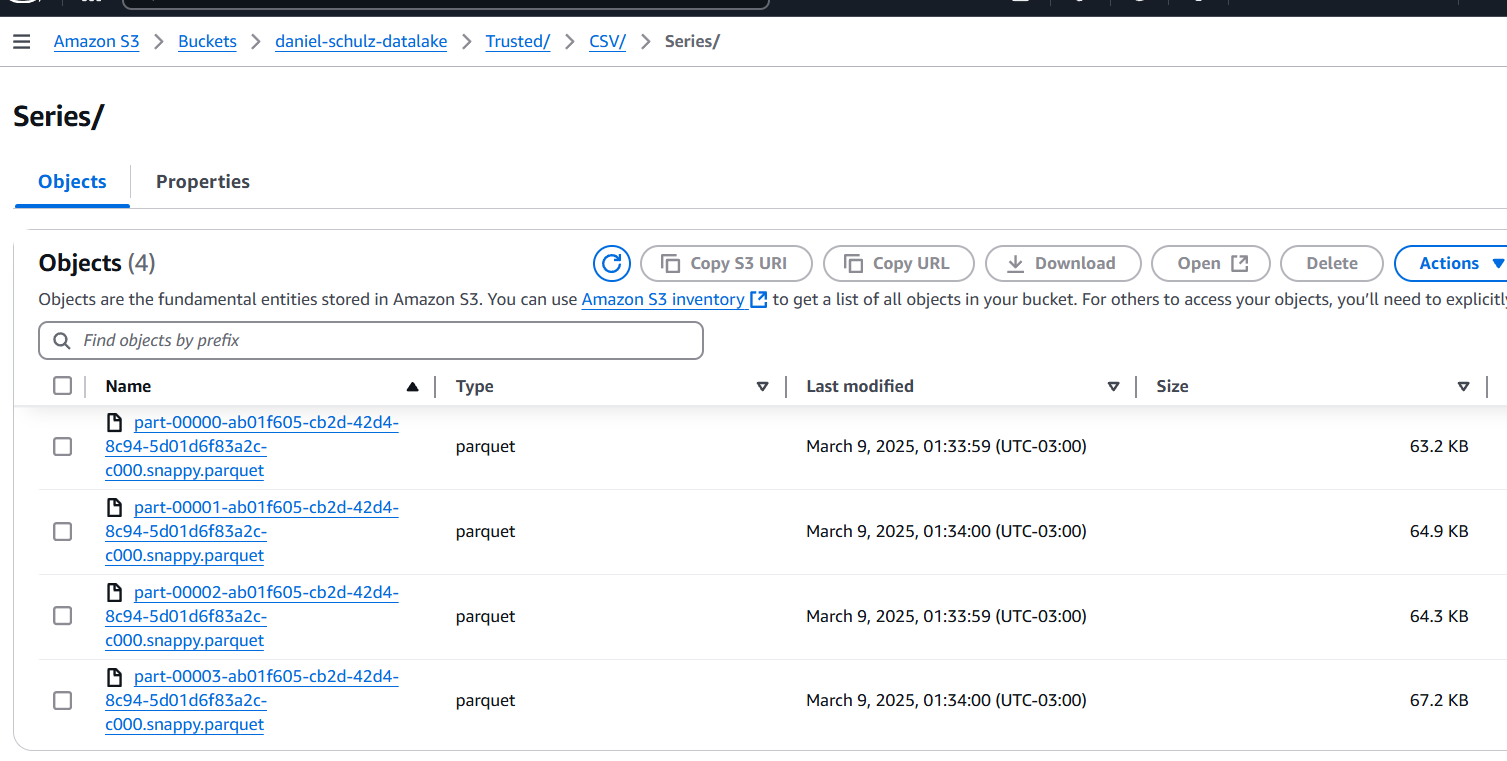
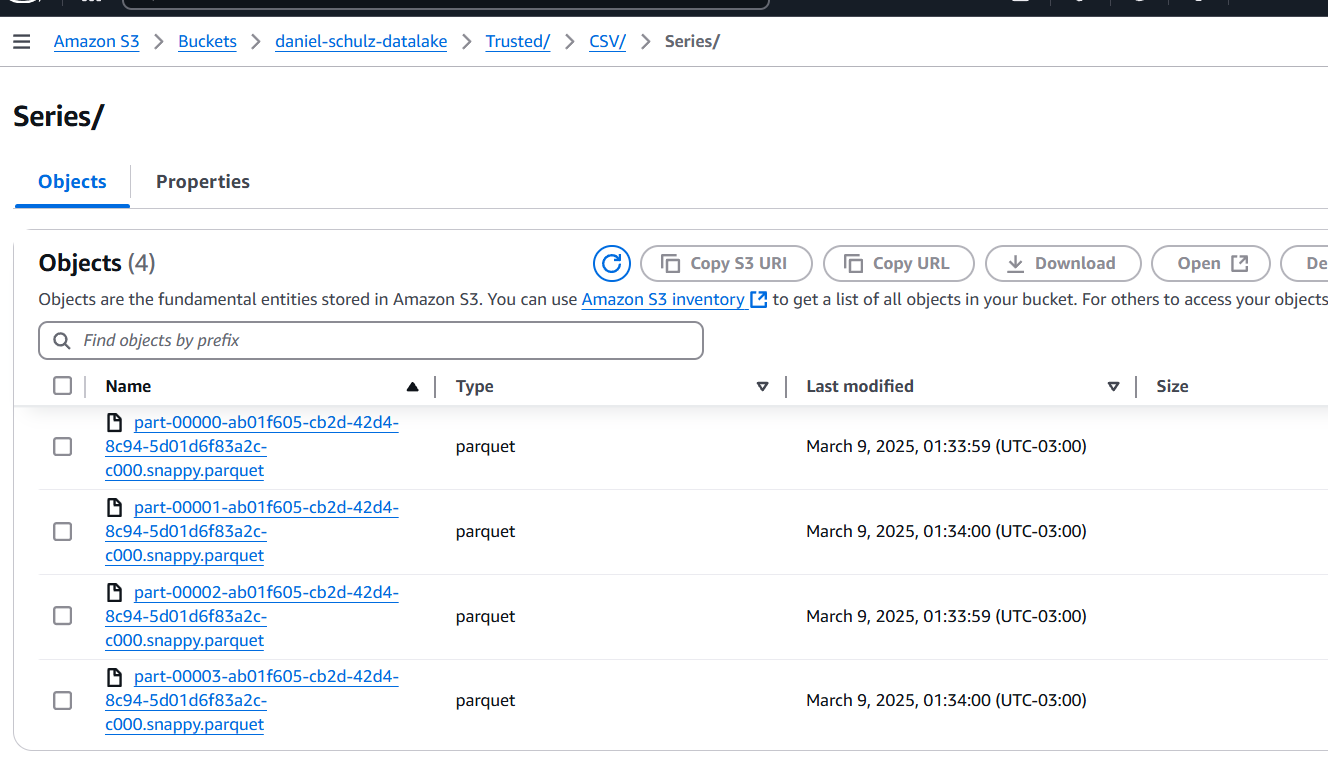
Precisei arrumar alguns detalhes na documentação e nos códigos

diff --git a/Sprint 6/Desafio/etapa-2/aws-glue-json.py b/Sprint 6/Desafio/etapa-2/aws-glue-json.py
@@ -1,5 +1,5 @@
 import sys
-import datetime
+import re
 from awsglue.transforms import *
 from awsglue.utils import getResolvedOptions
 from pyspark.context import SparkContext
@@ -9,11 +9,11 @@ from awsglue.dynamicframe import DynamicFrame
 from pyspark.sql.functions import col, upper, when
 
 # Obtive argumentos do AWS Glue Job
-args = getResolvedOptions(sys.argv, ['JOB_NAME', 'INPUT_PATH', 'OUTPUT_PATH'])
+args = getResolvedOptions(sys.argv, ['JOB_NAME', 'INPUT_PATH', 'TARGET_PATH'])
 
 # Converti a string de caminhos em uma lista
 json_paths = args['INPUT_PATH'].split(',')
-parquet_base_path = args['OUTPUT_PATH']
+parquet_base_path = args['TARGET_PATH']
 
 # Inicializei Spark e Glue
 sc = SparkContext()
@@ -22,13 +22,20 @@ spark = glueContext.spark_session
 job = Job(glueContext)
 job.init(args['JOB_NAME'], args)
 
-# Obtive data da execução para criar diretórios no formato correto
-today = datetime.datetime.now()
-ano, mes, dia = today.strftime("%Y"), today.strftime("%m"), today.strftime("%d")
+# Função para extrair a data do caminho do arquivo
+def extract_date_from_path(path):
+    match = re.search(r'(\d{4})/(\d{2})/(\d{2})/', path)
+    if match:
+        return match.group(1), match.group(2), match.group(3)
+    else:
+        raise ValueError("Data não encontrada no caminho do arquivo")
 
-# Criei um DynamicFrame para cada JSON e apliquei transformações
-dataframes = []
+# Processar cada arquivo JSON individualmente
 for path in json_paths:
+    # Extrai a data do caminho do arquivo
+    ano, mes, dia = extract_date_from_path(path)
+    
+    # Cria um DynamicFrame a partir do JSON
     dynamic_frame = glueContext.create_dynamic_frame.from_options(
         format_options={"multiline": True},
         connection_type="s3",
@@ -36,9 +43,10 @@ for path in json_paths:
         connection_options={"paths": [path], "recurse": True}
     )
 
+    # Converte para DataFrame
     df = dynamic_frame.toDF()
 
-    # Apliquei transformações
+    # Aplica transformações
     df = df.withColumn("anoLancamento", when(col("anoLancamento") == "", "Desconhecido")
                                        .otherwise(col("anoLancamento").cast("int")))
     df = df.withColumn("numeroEpisodios", when(col("numeroEpisodios").isNull(), 0)
@@ -48,28 +56,19 @@ for path in json_paths:
     df = df.withColumn("tituloOriginal", upper(col("tituloOriginal")))
     df = df.withColumn("estudio", upper(col("estudio")))
 
-    dataframes.append(df)
+    # Converte de volta para DynamicFrame
+    transformed_dynamic_frame = DynamicFrame.fromDF(df, glueContext, "transformed_df")
 
-# Uni todos os DataFrames
-df_final = dataframes[0]
-for df in dataframes[1:]:
-    df_final = df_final.unionByName(df)
+    # Cria o caminho de saída com base na data extraída
+    final_path = f"{parquet_base_path}/TMDB/Parquet/Series/{ano}/{mes}/{dia}/"
 
-# Converti para DynamicFrame
-transformed_dynamic_frame = DynamicFrame.fromDF(df_final, glueContext, "transformed_df")
-
-# Caminho final seguindo o padrão estabelecido
-final_path = f"{parquet_base_path}/TMDB/Parquet/Series/{ano}/{mes}/{dia}/"
-
-# Salvando como Parquet no S3
-glueContext.write_dynamic_frame.from_options(
-    frame=transformed_dynamic_frame,
-    connection_type="s3",
-    format="parquet",
-    connection_options={"path": final_path} 
-)
-
-print(f"Processamento concluído! Dados salvos em: {final_path}")
+    # Salva como Parquet no S3
+    glueContext.write_dynamic_frame.from_options(
+        frame=transformed_dynamic_frame,
+        connection_type="s3",
+        format="parquet",
+        connection_options={"path": final_path} 
+    )
 
 # Finalizando o job
 job.commit()

diff --git a/Sprint 6/Desafio/etapa-1/aws-glue-csv.py b/Sprint 6/Desafio/etapa-1/aws-glue-csv.py
@@ -46,11 +46,8 @@ df = df.withColumn("notaMedia", col("notaMedia").cast("int"))
 # Removi duplicatas
 df = df.dropDuplicates()
 
-# Filtrei para ter os dados do gênero Crime ou War
-df_filtered = df.filter(col("genero").rlike("Crime|War"))
-
 # Salvei os dados filtrados no S3 no formato Parquet (usando Spark diretamente)
-df_filtered.write.mode("overwrite").parquet(target_path)
+df.write.mode("overwrite").parquet(target_path)
 
 # Finalizei o job
 job.commit()

diff --git a/Sprint 6/Desafio/README.md b/Sprint 6/Desafio/README.md
@@ -4,7 +4,7 @@ Comecei criando o diretório Trusted no meu DataLake:
 
 ![trusted_criado](../Evidências/trusted_criada.png)
 
-Como inicialmente eu escolhi analisar apenas as séries de Guerra, no CSV eu filtrei as séries do gênero Guerra, mas ao fazer a filtragem percebi que tinha poucos dados com essas condições:
+Como inicialmente eu escolhi analisar apenas as séries de Guerra, no CSV eu filtrei as séries do gênero Guerra para saber a quantidade, mas ao fazer a filtragem percebi que tinha poucos dados com essas condições:
 
 ![linhas_series_war](../Evidências/linhas_war_csv.png)
 
@@ -26,7 +26,7 @@ Sendo assim, pensei em analisar dados de séries de Guerra e Crime, então, prec
 
 ---
 
-Código Lambda atualizado e executado:
+Código Lambda executado:
 
 ![dados_series_crime](../Evidências/dados_crime_api.png)
 
@@ -80,8 +80,6 @@ As colunas anoLancamento, anoTermino e tempoMinutos, anoNascimento, anoFalecimen
 Também idenfiquei valores duplicados, então escolhi remover as duplicatas.
 
 ![duplicados](../Evidências/duplicados.png)
-
-E como optei por fazer análises sobre os gêneros Crime e Guerra, filtrarei para ter os dados do gênero "Crime" ou "War".
 
 ## Código para fazer o ETL no AWS Glue (Job 1):
 
@@ -171,15 +169,9 @@ df = df.dropDuplicates()
 ```
 ---
 
-### **10. Filtragem por Gênero (Crime ou Guerra)**
+### **10. Salvamento no S3 em Formato Parquet**
 ```python
-df_filtered = df.filter(col("genero").rlike("Crime|War"))
-```
----
-
-### **11. Salvamento no S3 em Formato Parquet**
-```python
-df_filtered.write.mode("overwrite").parquet(target_path)
+df.write.mode("overwrite").parquet(target_path)
 ```
 ---
 
@@ -220,7 +212,7 @@ Os textos nas colunas tituloOriginal e estudio serão convertidos para maiúscul
 ### **1. Importação das Bibliotecas**
 ```python
 import sys
-import datetime
+import re
 from awsglue.transforms import *
 from awsglue.utils import getResolvedOptions
 from pyspark.context import SparkContext
@@ -233,17 +225,21 @@ from pyspark.sql.functions import col, upper, when
 
 ### **2. Obtenção de Argumentos do AWS Glue Job**
 ```python
-args = getResolvedOptions(sys.argv, ['JOB_NAME', 'INPUT_PATH', 'OUTPUT_PATH'])
+args = getResolvedOptions(sys.argv, ['JOB_NAME', 'INPUT_PATH', 'TARGET_PATH'])
 ```
+- **Argumentos:**
+  - `INPUT_PATH`: Caminho(s) dos arquivos JSON de entrada no S3.
+  - `TARGET_PATH`: Caminho base de saída para os arquivos Parquet no S3.
+
 ---
 
 ### **3. Conversão de Caminhos em Listas**
 ```python
 json_paths = args['INPUT_PATH'].split(',')
-parquet_base_path = args['OUTPUT_PATH']
+parquet_base_path = args['TARGET_PATH']
 ```
-- O caminho de entrada **INPUT_PATH** é dividido em uma lista de caminhos separados por vírgula, permitindo processar múltiplos arquivos JSON.
-- O caminho de saída **OUTPUT_PATH** é atribuído à variável **parquet_base_path**.
+- **INPUT_PATH** é dividido em uma lista de caminhos separados por vírgula, permitindo processar múltiplos arquivos JSON.
+- **TARGET_PATH** é atribuído à variável **parquet_base_path**, que será usada como base para o caminho de saída.
 
 ---
 
@@ -255,106 +251,95 @@ spark = glueContext.spark_session
 job = Job(glueContext)
 job.init(args['JOB_NAME'], args)
 ```
-
 ---
 
-### **5. Obtendo Data de Execução**
+### **5. Função para Extrair Data do Caminho do Arquivo**
 ```python
-today = datetime.datetime.now()
-ano, mes, dia = today.strftime("%Y"), today.strftime("%m"), today.strftime("%d")
+def extract_date_from_path(path):
+    match = re.search(r'(\d{4})/(\d{2})/(\d{2})/', path)
+    if match:
+        return match.group(1), match.group(2), match.group(3)
+    else:
+        raise ValueError("Data não encontrada no caminho do arquivo")
 ```
-- Obtém a data atual para organizar os arquivos de saída por ano, mês e dia.
+- **Função:**
+  - Extrai a data (ano, mês e dia) do caminho do arquivo JSON usando uma expressão regular.
+  - Se a data não for encontrada, uma exceção é lançada.
 
 ---
 
-### **6. Transformação dos Dados dos Arquivos JSON**
+### **6. Processamento de Cada Arquivo JSON Individualmente**
 ```python
-dataframes = []
 for path in json_paths:
+    ano, mes, dia = extract_date_from_path(path)
+    
     dynamic_frame = glueContext.create_dynamic_frame.from_options(
         format_options={"multiline": True},
         connection_type="s3",
         format="json",
         connection_options={"paths": [path], "recurse": True}
     )
-
-    df = dynamic_frame.toDF()
 ```
-- Para cada caminho de arquivo JSON, cria um **DynamicFrame** a partir do S3. A opção **multiline=True** permite que o Glue leia JSON com múltiplas linhas.
-- O **DynamicFrame** é convertido em um **DataFrame Spark** para permitir manipulação usando PySpark.
+- Para cada caminho de arquivo JSON:
+  - Extrai a data (ano, mês e dia) do caminho.
+  - Cria um **DynamicFrame** a partir do JSON no S3, com a opção **multiline=True** para ler JSONs com múltiplas linhas.
 
 ---
 
-### **7. Aplicando Transformações**
+### **7. Conversão para DataFrame e Aplicação de Transformações**
 ```python
-    df = df.withColumn("anoLancamento", when(col("anoLancamento") == "", "Desconhecido")
-                                       .otherwise(col("anoLancamento").cast("int")))
+    df = dynamic_frame.toDF()
 
-    df = df.withColumn("numeroEpisodios", when(col("numeroEpisodios").isNull(), 0)
-                                         .otherwise(col("numeroEpisodios").cast("int")))
+    df = df.withColumn("anoLancamento", when(col("anoLancamento") == "", "Desconhecido").otherwise(col("anoLancamento").cast("int")))
 
-    df = df.withColumn("estudio", when(col("estudio") == "N/A", "Desconhecido")
-                                  .otherwise(col("estudio")))
+    df = df.withColumn("numeroEpisodios", when(col("numeroEpisodios").isNull(), 0).otherwise(col("numeroEpisodios").cast("int")))
+
+    df = df.withColumn("estudio", when(col("estudio") == "N/A", "Desconhecido").otherwise(col("estudio")))
 
     df = df.withColumn("tituloOriginal", upper(col("tituloOriginal")))
+    
     df = df.withColumn("estudio", upper(col("estudio")))
-
-    dataframes.append(df)
 ```
-- **Transformações** aplicadas ao **DataFrame**:
+- **Transformações aplicadas:**
   - `anoLancamento`: Se estiver vazio, é atribuído "Desconhecido". Caso contrário, é convertido para **inteiro**.
   - `numeroEpisodios`: Se for **NULL**, é substituído por 0, caso contrário, é convertido para **inteiro**.
   - `estudio`: Se o valor for **"N/A"**, é substituído por "Desconhecido".
   - `tituloOriginal` e `estudio`: São convertidos para **maiúsculas**.
-- Cada **DataFrame** resultante é adicionado à lista **dataframes**.
 
 ---
 
-### **8. União de DataFrames**
+### **8. Conversão de Volta para DynamicFrame**
 ```python
-df_final = dataframes[0]
-for df in dataframes[1:]:
-    df_final = df_final.unionByName(df)
+    transformed_dynamic_frame = DynamicFrame.fromDF(df, glueContext, "transformed_df")
 ```
-- Todos os **DataFrames** transformados são unidos em um único **DataFrame** utilizando o método **unionByName**, que combina os dados com base no nome das colunas.
+- O **DataFrame** transformado é convertido de volta para **DynamicFrame**, que é o formato utilizado pelo AWS Glue para salvar os dados.
 
 ---
 
-### **9. Conversão para DynamicFrame**
+### **9. Definição do Caminho de Saída**
 ```python
-transformed_dynamic_frame = DynamicFrame.fromDF(df_final, glueContext, "transformed_df")
+    final_path = f"{parquet_base_path}/TMDB/Parquet/Series/{ano}/{mes}/{dia}/"
 ```
-- O **DataFrame** final é convertido de volta para **DynamicFrame**, que é o formato utilizado pelo AWS Glue para realizar transformações e salvar os dados.
+- O caminho de saída é criado com base na data extraída do caminho do arquivo JSON, seguindo o padrão **ano/mês/dia**.
 
 ---
 
-### **10. Definindo o Caminho de Saída**
+### **10. Escrita do DataFrame Transformado no S3 em Parquet**
 ```python
-final_path = f"{parquet_base_path}/TMDB/Parquet/Series/{ano}/{mes}/{dia}/"
+    glueContext.write_dynamic_frame.from_options(
+        frame=transformed_dynamic_frame,
+        connection_type="s3",
+        format="parquet",
+        connection_options={"path": final_path} 
+    )
 ```
-- Define o caminho final onde os arquivos transformados serão salvos no formato **Parquet**. A estrutura de diretórios segue o padrão **ano/mês/dia**.
-
+- O **DynamicFrame** transformado é salvo no S3 no formato **Parquet**, no caminho especificado.
 ---
 
-### **11. Escrevendo o DataFrame Transformado no S3 em Parquet**
+### **11. Finalizando o Job**
 ```python
-glueContext.write_dynamic_frame.from_options(
-    frame=transformed_dynamic_frame,
-    connection_type="s3",
-    format="parquet",
-    connection_options={"path": final_path} 
-)
-```
-- Grava o **DynamicFrame** transformado no S3, no formato **Parquet**, no caminho especificado.
-
----
-
-### **12. Finalizando o Job**
-```python
-print(f"Processamento concluído! Dados salvos em: {final_path}")
 job.commit()
 ```
-- Exibe uma mensagem indicando que o processamento foi concluído com sucesso e que os dados foram salvos no caminho final.
 - Finaliza o job do Glue com **job.commit()**.
 
 ---
@@ -369,11 +354,11 @@ Arquivos gerados no S3
 
 ### Catalogando os dados
 
-Criando Crawler 
+Criando Crawler para o Primeiro Job do CSV
 
-![config_crawler](../Evidências/criando_crawler.png)
+![config_crawler](../Evidências/criando_crawler1.png)
 
-Abrindo o Athena, foi criado as duas tabelas local e tmdb
+Abrindo o Athena, foi criado a tabela local
 
 ![2_tables](../Evidências/tables_criadas.png)
 
@@ -383,14 +368,23 @@ Colunas da tabela local:
 
 ![local_table2](../Evidências/local_table2.png)
 
-Colunas da tabela tmdb:
-
-![tmdb_table](../Evidências/tmdb_table.png)
 
 Consulta das primeiras 10 linhas da tabela local:
 
 ![consulta_local](../Evidências/consulta_local.png)
 
+
+Criando Crawler para o segundo Job de JSON
+
+![criando_crawler2](../Evidências/criando_crawler2.png)
+
+Colunas da tabela tmdb:
+
+![tmdb_table](../Evidências/tmdb_table.png)
+
+
 Consulta das primeiras 10 linhas da tabela tmdb:
 
 ![consulta_tmdb](../Evidências/consulta_tmdb.png)
+
+
